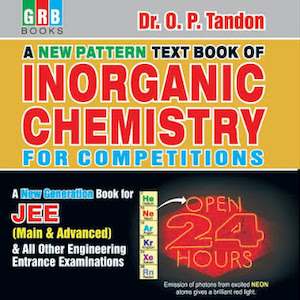
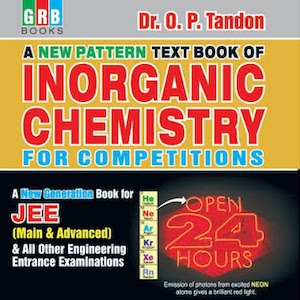
compressed images
Compressed 2 book images in inter section.
removed "bhaiyyon" from text.

diff --git a/index.html b/index.html
@@ -163,8 +163,7 @@
             <div class="textleft">
               <ul>
                 <li>Evolution</li>
-                <li>dekh rhe ho</li>
-                <li>bhaiyyon?</li>
+                <li>dekh rhe ho?</li>
               </ul>
             </div>
             <div class="textright">
